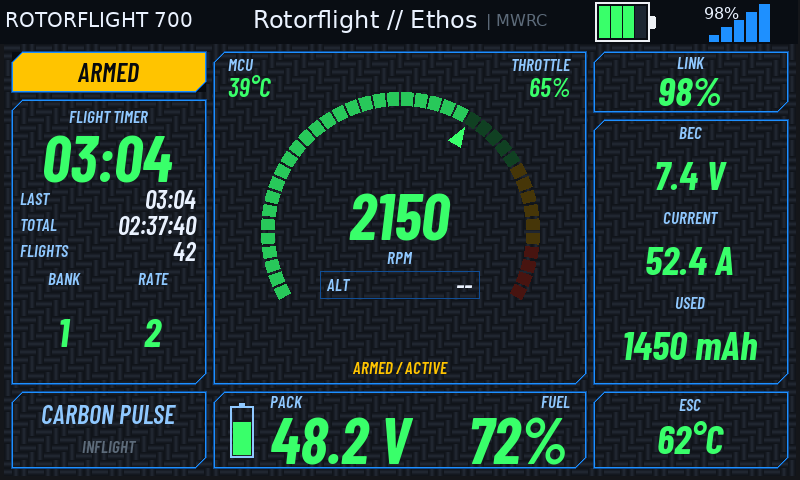
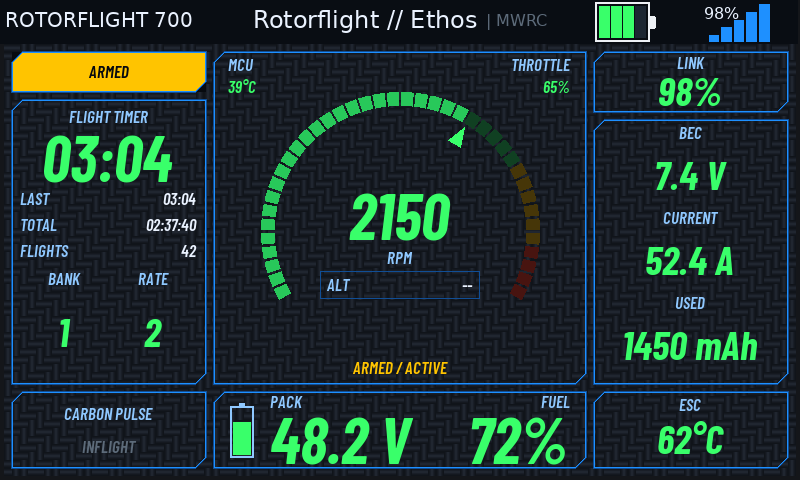
perf(themes): draw Carbon Pulse secondary text at the caption size
On the owner's radio each glyph mask takes about 13 ms to read the first
time it shows; a timing build read 52 masks in 663 ms of a 1.59 s cold
load. On a full screen the pill, last, total and flight count, the
corner and altitude readings, the issue, the flight state and the theme
name now use the 16 px label size, as the compact layout already does for
all but the pill, so a full screen reads no 25 px masks. A first 800 x 480
screen reads 37 masks offline instead of 56, and 61 to 63 connected
instead of 75. The compact layout is unchanged.

The full-screen previews and renders are regenerated; the compact
renders are unchanged. bin/perf/verify_instruction_budget.lua: 167
checks, 0 failed, Carbon Pulse peak 15,395.

diff --git a/docs/dashboard/carbonpulse.md b/docs/dashboard/carbonpulse.md
@@ -81,7 +81,11 @@ colour. The masks are
 rendered from Barlow Condensed in five sizes; with the carbon tile, `gfx/` holds
 203 PNG files of about 76 KB, generated with `glyphs.lua` by an external MWRC
 Theme Studio script that is not part of this repository. A mask is loaded the
-first time its character is laid out, and the masks and tile are released with
+first time its character is laid out, which takes about 13 ms on a radio, so a
+full screen draws its secondary text (the pill, last, total and flight count,
+the corner and altitude readings, the issue, the flight state and the theme
+name) at its 16 px caption size, the size the compact layout already uses for
+that text apart from the pill. The masks and tile are released with
 the Suite's other images on a theme reload, a model change and when the widget
 closes. A text with a character outside the glyph sets, or too wide for every
 size, uses the radio font. Missing masks fall back to the radio font and a
